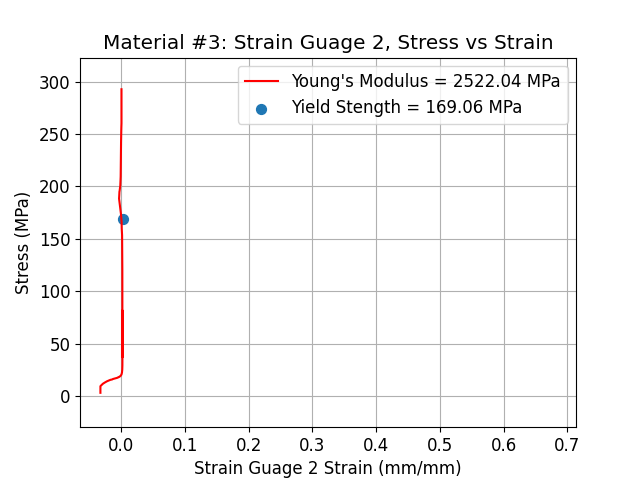
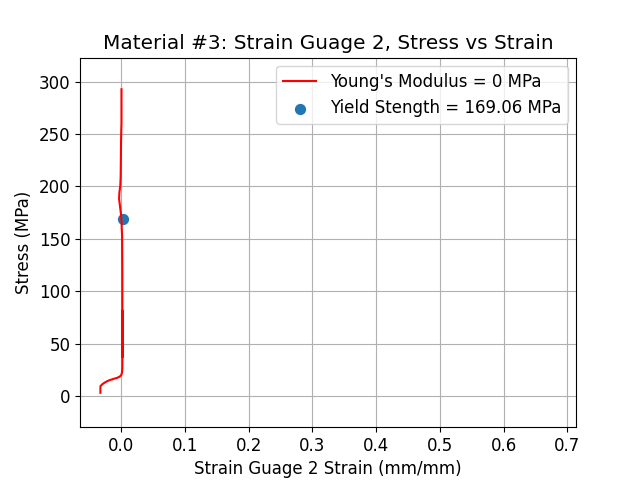
fixes

Changed region(s): [[0.375, 0.1562, 0.875, 0.25]]

diff --git a/src/analysis.py b/src/analysis.py
@@ -70,15 +70,15 @@ def ModulusProcess(data: pd.DataFrame, test_num: np.int8):
 
     modulus = [0, 0, 0]
 
-    modulus[0], intercept = np.polyfit(data['Laser'][30:end_ind], data.MTS_stress[30:end_ind], deg=1)
-    modulus[1], intercept = np.polyfit(data['Strain Guage 2'][0:end_ind], data.MTS_stress[0:end_ind], deg=1)
-    modulus[2], intercept = np.polyfit(data['Strain Guage 1'][0:end_ind], data.MTS_stress[0:end_ind], deg=1) # transverse
-
     if test_num == 3:
         modulus[0], intercept = np.polyfit(data['Laser'][0:end_ind], data.MTS_stress[0:end_ind], deg=1)    
         modulus[2], intercept = np.polyfit(data['Strain Guage 1'][0:end_ind], data.MTS_stress[0:end_ind], deg=1) # transverse
+    else:
+        modulus[0], intercept = np.polyfit(data['Laser'][30:end_ind], data.MTS_stress[30:end_ind], deg=1)
+        modulus[1], intercept = np.polyfit(data['Strain Guage 2'][0:end_ind], data.MTS_stress[0:end_ind], deg=1)
+        modulus[2], intercept = np.polyfit(data['Strain Guage 1'][0:end_ind], data.MTS_stress[0:end_ind], deg=1) # transverse
 
-    
+    # print(modulus)
     return modulus
 
 def YieldProcess(data: pd.DataFrame, test_num: np.int8, modulus: np.array):

diff --git a/src/graphing.py b/src/graphing.py
@@ -78,6 +78,7 @@ def StrainGraph(data: pd.DataFrame, test_num: np.int8, sensor: np.array, modulus
 
         # x = np.linspace(0, 1, 100)
         # y = x*mod - mod*0.002
+        # print(test_num)
         # plt.plot(x, y)
 
         plt.grid()
